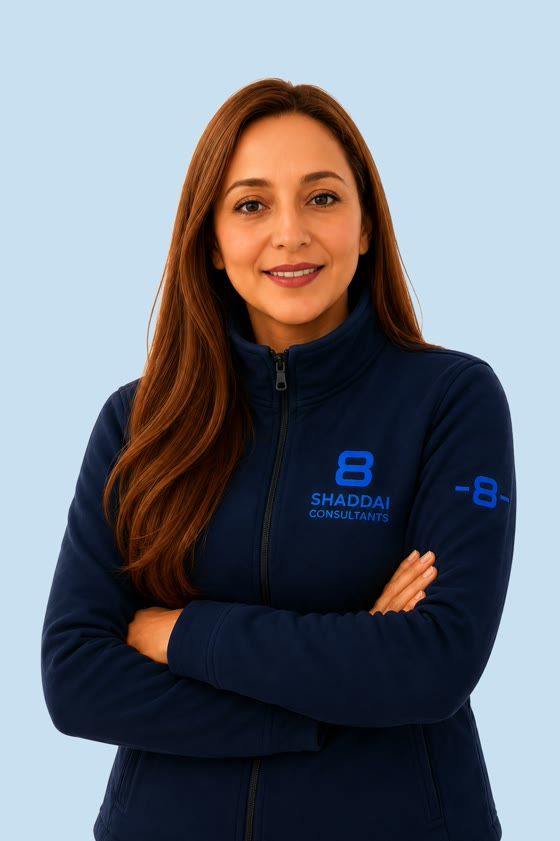
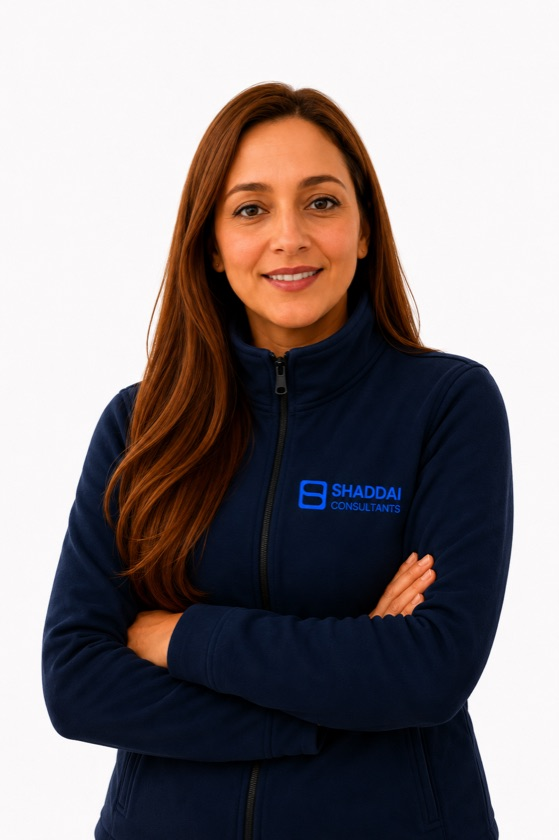
Pone los avatares nuevos en las fotos del equipo
Mateo, Astrid, Paula, Carol y Valentina (Vale en el kit) salían con el
recorte viejo sobre azul polvo. Ahora son los avatares definitivos,
generados desde los PNG originales al tamaño de la cuadrícula para no
subir el peso de la página. La lámina de la foto pasa a fondo blanco,
que es el color sobre el que vienen recortados.

diff --git a/estilos.css b/estilos.css
@@ -570,9 +570,9 @@
   @media(max-width:900px){.team{grid-template-columns:repeat(3,1fr);gap:22px}}
   @media(max-width:560px){.team{grid-template-columns:repeat(2,1fr);gap:18px}}
   .member{margin:0}
-  /* Fondo azul polvo: es el color sobre el que se recortaron las fotos */
+  /* Fondo blanco: es el color sobre el que vienen recortados los avatares */
   .member-photo{
-    position:relative;aspect-ratio:3/4;border-radius:2px;overflow:hidden;background:var(--paper-3);
+    position:relative;aspect-ratio:3/4;border-radius:2px;overflow:hidden;background:#fff;
   }
   .member-photo img{width:100%;height:100%;object-fit:cover;object-position:top center;transition:transform 1.2s cubic-bezier(.2,.7,.2,1)}
   .member:hover .member-photo img{transform:scale(1.04)}

diff --git a/index.html b/index.html
@@ -451,7 +451,7 @@
           </div>
         </div>
 
-        <!-- Equipo · fotos en ./assets/equipo/ — recortadas sobre el azul polvo de marca -->
+        <!-- Equipo · ./assets/equipo/ son los avatares de ./assets/avatares/ al tamaño de la cuadrícula -->
         <div class="team-block reveal">
           <div class="team-kicker"><span class="pin"></span>El equipo — quienes están detrás del trabajo</div>
           <div class="team">
